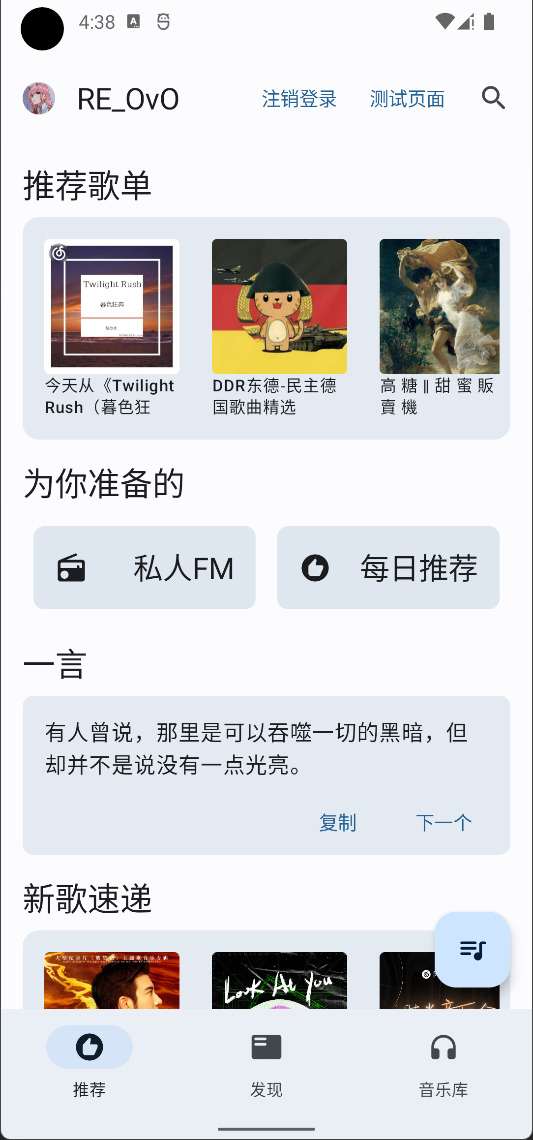
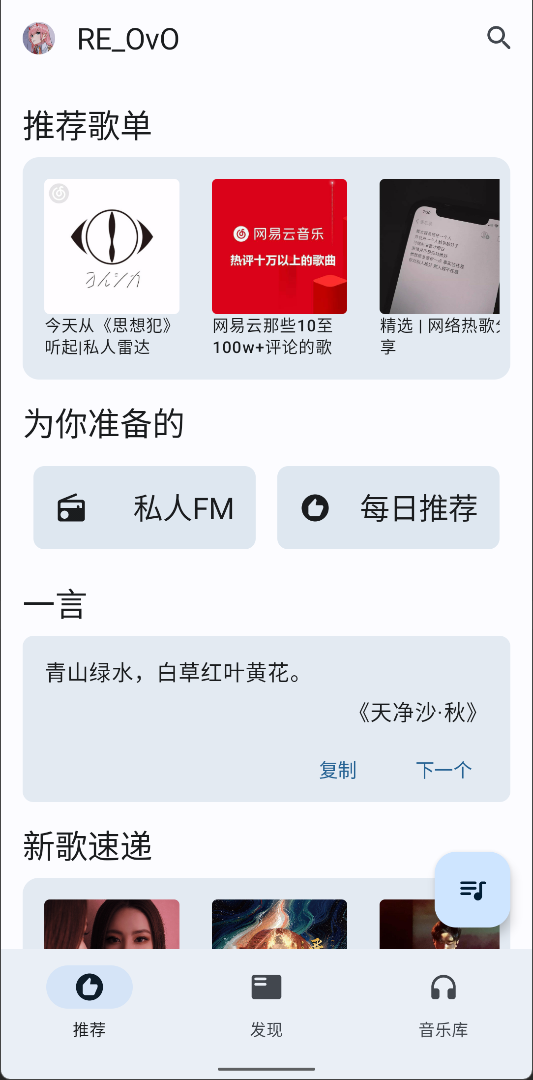
隐藏了调试按钮

diff --git a/app/src/main/java/me/rerere/rainmusic/ui/screen/index/IndexScreen.kt b/app/src/main/java/me/rerere/rainmusic/ui/screen/index/IndexScreen.kt
@@ -3,6 +3,7 @@ package me.rerere.rainmusic.ui.screen.index
 import androidx.compose.animation.AnimatedVisibility
 import androidx.compose.animation.ExperimentalAnimationApi
 import androidx.compose.foundation.ExperimentalFoundationApi
+import androidx.compose.foundation.combinedClickable
 import androidx.compose.foundation.layout.Column
 import androidx.compose.foundation.layout.fillMaxSize
 import androidx.compose.foundation.layout.padding
@@ -10,15 +11,13 @@ import androidx.compose.foundation.shape.CircleShape
 import androidx.compose.material.icons.Icons
 import androidx.compose.material.icons.rounded.*
 import androidx.compose.material3.*
-import androidx.compose.runtime.Composable
-import androidx.compose.runtime.collectAsState
-import androidx.compose.runtime.getValue
-import androidx.compose.runtime.rememberCoroutineScope
+import androidx.compose.runtime.*
 import androidx.compose.ui.Modifier
 import androidx.compose.ui.draw.clip
 import androidx.compose.ui.graphics.Color
 import androidx.compose.ui.platform.LocalContext
 import androidx.compose.ui.res.stringResource
+import androidx.compose.ui.unit.dp
 import androidx.hilt.navigation.compose.hiltViewModel
 import coil.compose.ImagePainter
 import coil.compose.rememberImagePainter
@@ -119,6 +118,7 @@ private fun NetworkBanner(
     }
 }
 
+@ExperimentalFoundationApi
 @ExperimentalAnimationApi
 @ExperimentalMaterial3Api
 @Composable
@@ -161,15 +161,15 @@ private fun IndexTopBar(
             }
         },
         actions = {
-            if(BuildConfig.DEBUG) {
+            var showDebugButtons by remember {
+                mutableStateOf(false)
+            }
+            if (BuildConfig.DEBUG && showDebugButtons) {
                 TextButton(onClick = {
                     CookieHelper.logout()
                 }) {
                     Text(text = "注销登录")
                 }
-            }
-
-            if(BuildConfig.DEBUG){
                 TextButton(onClick = {
                     Screen.Test.navigate(navController)
                 }) {
@@ -177,13 +177,18 @@ private fun IndexTopBar(
                 }
             }
 
-            IconButton(
-                onClick = {
-                    navController.navigate(Screen.Search.route)
-                }
-            ) {
-                Icon(Icons.Rounded.Search, "Search")
-            }
+            Icon(
+                modifier = Modifier.combinedClickable(
+                    onClick = {
+                        navController.navigate(Screen.Search.route)
+                    },
+                    onLongClick = {
+                        showDebugButtons = !showDebugButtons
+                    }
+                ).padding(8.dp),
+                imageVector = Icons.Rounded.Search,
+                contentDescription = "Search"
+            )
         },
         appBarStyle = AppBarStyle.Small,
         scrollBehavior = scrollBehavior
